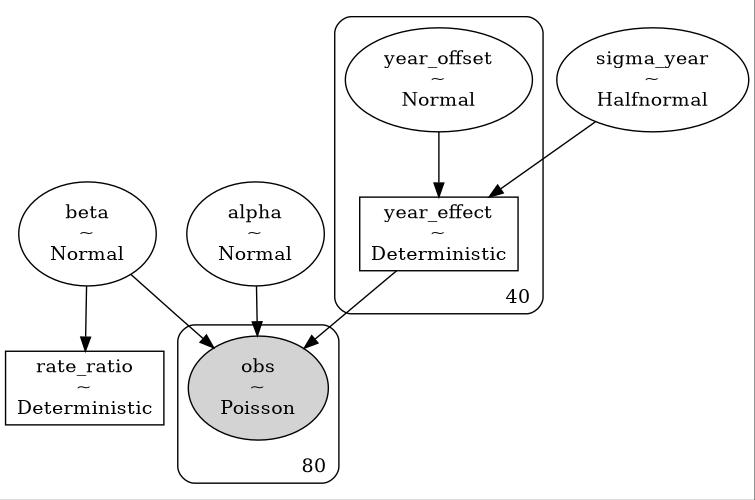
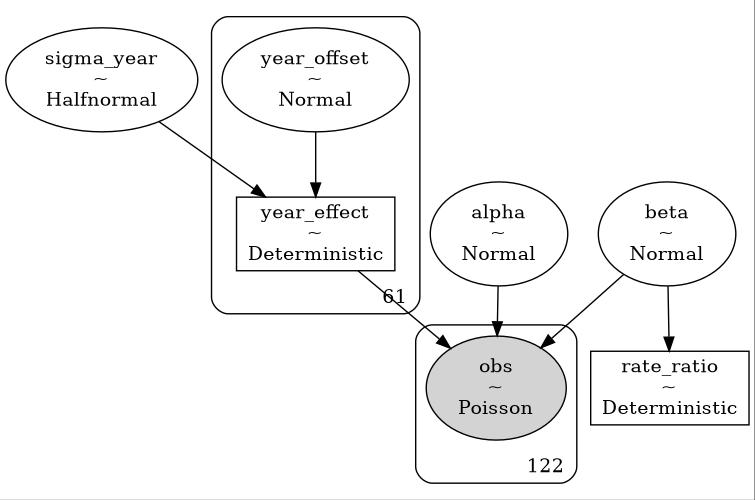
-

diff --git a/stat/stat_082_rapoi/stat_082_rapoi.html b/stat/stat_082_rapoi/stat_082_rapoi.html
@@ -161,7 +161,7 @@ class="sourceCode python"><code class="sourceCode python"><span id="cb3-1"><a hr
 <span id="cb3-7"><a href="#cb3-7" aria-hidden="true" tabindex="-1"></a></span>
 <span id="cb3-8"><a href="#cb3-8" aria-hidden="true" tabindex="-1"></a>sim <span class="op">=</span> data.generate_synthetic(years<span class="op">=</span>years,</span>
 <span id="cb3-9"><a href="#cb3-9" aria-hidden="true" tabindex="-1"></a>                              alpha_log<span class="op">=</span><span class="fl">3.2</span>,</span>
-<span id="cb3-10"><a href="#cb3-10" aria-hidden="true" tabindex="-1"></a>                              beta_log<span class="op">=</span>np.log(<span class="fl">1.05</span>),   <span class="co"># ~5% higher near</span></span>
+<span id="cb3-10"><a href="#cb3-10" aria-hidden="true" tabindex="-1"></a>                              beta_log<span class="op">=</span><span class="dv">0</span>,</span>
 <span id="cb3-11"><a href="#cb3-11" aria-hidden="true" tabindex="-1"></a>                              sigma_year<span class="op">=</span><span class="fl">0.4</span>,</span>
 <span id="cb3-12"><a href="#cb3-12" aria-hidden="true" tabindex="-1"></a>                              obs_model<span class="op">=</span><span class="st">&quot;poisson&quot;</span>,</span>
 <span id="cb3-13"><a href="#cb3-13" aria-hidden="true" tabindex="-1"></a>                              trend<span class="op">=</span>data.slow_trend)</span>
@@ -172,7 +172,7 @@ class="sourceCode python"><code class="sourceCode python"><span id="cb3-1"><a hr
 <span id="cb3-18"><a href="#cb3-18" aria-hidden="true" tabindex="-1"></a>    <span class="st">&quot;far&quot;</span>: sim[<span class="st">&quot;far&quot;</span>]</span>
 <span id="cb3-19"><a href="#cb3-19" aria-hidden="true" tabindex="-1"></a>})</span>
 <span id="cb3-20"><a href="#cb3-20" aria-hidden="true" tabindex="-1"></a></span>
-<span id="cb3-21"><a href="#cb3-21" aria-hidden="true" tabindex="-1"></a>SEED <span class="op">=</span> <span class="dv">123</span></span>
+<span id="cb3-21"><a href="#cb3-21" aria-hidden="true" tabindex="-1"></a>SEED <span class="op">=</span> <span class="dv">333</span></span>
 <span id="cb3-22"><a href="#cb3-22" aria-hidden="true" tabindex="-1"></a>np.random.seed(SEED)</span>
 <span id="cb3-23"><a href="#cb3-23" aria-hidden="true" tabindex="-1"></a></span>
 <span id="cb3-24"><a href="#cb3-24" aria-hidden="true" tabindex="-1"></a><span class="co"># quick plot of generated counts</span></span>
@@ -186,61 +186,68 @@ class="sourceCode python"><code class="sourceCode python"><span id="cb3-1"><a hr
 <span id="cb3-32"><a href="#cb3-32" aria-hidden="true" tabindex="-1"></a>plt.savefig(<span class="st">&#39;stat_082_rapoi_01.jpg&#39;</span>)</span></code></pre></div>
 <p><img src="stat_082_rapoi_01.jpg" /></p>
 <div class="sourceCode" id="cb4"><pre
-class="sourceCode python"><code class="sourceCode python"><span id="cb4-1"><a href="#cb4-1" aria-hidden="true" tabindex="-1"></a><span class="kw">def</span> build_stacked_arrays(simdict):</span>
-<span id="cb4-2"><a href="#cb4-2" aria-hidden="true" tabindex="-1"></a>    years <span class="op">=</span> np.array(simdict[<span class="st">&quot;years&quot;</span>])</span>
-<span id="cb4-3"><a href="#cb4-3" aria-hidden="true" tabindex="-1"></a>    near <span class="op">=</span> np.array(simdict[<span class="st">&quot;near&quot;</span>])</span>
-<span id="cb4-4"><a href="#cb4-4" aria-hidden="true" tabindex="-1"></a>    far  <span class="op">=</span> np.array(simdict[<span class="st">&quot;far&quot;</span>])</span>
-<span id="cb4-5"><a href="#cb4-5" aria-hidden="true" tabindex="-1"></a>    n_years <span class="op">=</span> <span class="bu">len</span>(years)</span>
-<span id="cb4-6"><a href="#cb4-6" aria-hidden="true" tabindex="-1"></a>    counts <span class="op">=</span> np.concatenate([near, far])</span>
-<span id="cb4-7"><a href="#cb4-7" aria-hidden="true" tabindex="-1"></a>    group <span class="op">=</span> np.concatenate([np.ones(n_years, dtype<span class="op">=</span><span class="bu">int</span>), np.zeros(n_years, dtype<span class="op">=</span><span class="bu">int</span>)])</span>
-<span id="cb4-8"><a href="#cb4-8" aria-hidden="true" tabindex="-1"></a>    year_idx <span class="op">=</span> np.concatenate([np.arange(n_years), np.arange(n_years)])</span>
-<span id="cb4-9"><a href="#cb4-9" aria-hidden="true" tabindex="-1"></a>    <span class="cf">return</span> years, counts, group, year_idx, near, far</span>
-<span id="cb4-10"><a href="#cb4-10" aria-hidden="true" tabindex="-1"></a></span>
-<span id="cb4-11"><a href="#cb4-11" aria-hidden="true" tabindex="-1"></a>years, counts_pois, group_pois, year_idx_pois, near_arr, far_arr <span class="op">=</span> build_stacked_arrays(sim)</span>
-<span id="cb4-12"><a href="#cb4-12" aria-hidden="true" tabindex="-1"></a>n_years <span class="op">=</span> <span class="bu">len</span>(years)</span>
-<span id="cb4-13"><a href="#cb4-13" aria-hidden="true" tabindex="-1"></a></span>
-<span id="cb4-14"><a href="#cb4-14" aria-hidden="true" tabindex="-1"></a><span class="cf">with</span> pm.Model() <span class="im">as</span> model_synth:</span>
-<span id="cb4-15"><a href="#cb4-15" aria-hidden="true" tabindex="-1"></a>    sigma_year <span class="op">=</span> pm.HalfNormal(<span class="st">&quot;sigma_year&quot;</span>, sigma<span class="op">=</span><span class="fl">1.0</span>)</span>
-<span id="cb4-16"><a href="#cb4-16" aria-hidden="true" tabindex="-1"></a>    year_offset <span class="op">=</span> pm.Normal(<span class="st">&quot;year_offset&quot;</span>, <span class="fl">0.0</span>, <span class="fl">1.0</span>, shape<span class="op">=</span>n_years)</span>
-<span id="cb4-17"><a href="#cb4-17" aria-hidden="true" tabindex="-1"></a>    year_effect <span class="op">=</span> pm.Deterministic(<span class="st">&quot;year_effect&quot;</span>, year_offset <span class="op">*</span> sigma_year)</span>
+class="sourceCode python"><code class="sourceCode python"><span id="cb4-1"><a href="#cb4-1" aria-hidden="true" tabindex="-1"></a></span>
+<span id="cb4-2"><a href="#cb4-2" aria-hidden="true" tabindex="-1"></a><span class="kw">def</span> fit_poisson_ratio(years, near_arr, far_arr, fout):</span>
+<span id="cb4-3"><a href="#cb4-3" aria-hidden="true" tabindex="-1"></a>    n_years <span class="op">=</span> <span class="bu">len</span>(years)</span>
+<span id="cb4-4"><a href="#cb4-4" aria-hidden="true" tabindex="-1"></a>    <span class="cf">with</span> pm.Model() <span class="im">as</span> model_synth:</span>
+<span id="cb4-5"><a href="#cb4-5" aria-hidden="true" tabindex="-1"></a>        sigma_year <span class="op">=</span> pm.HalfNormal(<span class="st">&quot;sigma_year&quot;</span>, sigma<span class="op">=</span><span class="fl">1.0</span>)</span>
+<span id="cb4-6"><a href="#cb4-6" aria-hidden="true" tabindex="-1"></a>        year_offset <span class="op">=</span> pm.Normal(<span class="st">&quot;year_offset&quot;</span>, <span class="fl">0.0</span>, <span class="fl">1.0</span>, shape<span class="op">=</span>n_years)</span>
+<span id="cb4-7"><a href="#cb4-7" aria-hidden="true" tabindex="-1"></a>        year_effect <span class="op">=</span> pm.Deterministic(<span class="st">&quot;year_effect&quot;</span>, year_offset <span class="op">*</span> sigma_year)</span>
+<span id="cb4-8"><a href="#cb4-8" aria-hidden="true" tabindex="-1"></a></span>
+<span id="cb4-9"><a href="#cb4-9" aria-hidden="true" tabindex="-1"></a>        alpha <span class="op">=</span> pm.Normal(<span class="st">&quot;alpha&quot;</span>, <span class="fl">0.0</span>, <span class="fl">2.0</span>)</span>
+<span id="cb4-10"><a href="#cb4-10" aria-hidden="true" tabindex="-1"></a>        beta  <span class="op">=</span> pm.Normal(<span class="st">&quot;beta&quot;</span>, <span class="fl">0.0</span>, <span class="fl">1.0</span>)</span>
+<span id="cb4-11"><a href="#cb4-11" aria-hidden="true" tabindex="-1"></a></span>
+<span id="cb4-12"><a href="#cb4-12" aria-hidden="true" tabindex="-1"></a>        log_mu <span class="op">=</span> alpha <span class="op">+</span> beta <span class="op">*</span> group_pois <span class="op">+</span> year_effect[year_idx_pois]</span>
+<span id="cb4-13"><a href="#cb4-13" aria-hidden="true" tabindex="-1"></a>        mu <span class="op">=</span> pm.math.exp(log_mu)</span>
+<span id="cb4-14"><a href="#cb4-14" aria-hidden="true" tabindex="-1"></a></span>
+<span id="cb4-15"><a href="#cb4-15" aria-hidden="true" tabindex="-1"></a>        obs <span class="op">=</span> pm.Poisson(<span class="st">&quot;obs&quot;</span>, mu<span class="op">=</span>mu, observed<span class="op">=</span>counts_pois)</span>
+<span id="cb4-16"><a href="#cb4-16" aria-hidden="true" tabindex="-1"></a></span>
+<span id="cb4-17"><a href="#cb4-17" aria-hidden="true" tabindex="-1"></a>        rate_ratio <span class="op">=</span> pm.Deterministic(<span class="st">&quot;rate_ratio&quot;</span>, pm.math.exp(beta))</span>
 <span id="cb4-18"><a href="#cb4-18" aria-hidden="true" tabindex="-1"></a></span>
-<span id="cb4-19"><a href="#cb4-19" aria-hidden="true" tabindex="-1"></a>    alpha <span class="op">=</span> pm.Normal(<span class="st">&quot;alpha&quot;</span>, <span class="fl">0.0</span>, <span class="fl">2.0</span>)</span>
-<span id="cb4-20"><a href="#cb4-20" aria-hidden="true" tabindex="-1"></a>    beta  <span class="op">=</span> pm.Normal(<span class="st">&quot;beta&quot;</span>, <span class="fl">0.0</span>, <span class="fl">1.0</span>)</span>
-<span id="cb4-21"><a href="#cb4-21" aria-hidden="true" tabindex="-1"></a></span>
-<span id="cb4-22"><a href="#cb4-22" aria-hidden="true" tabindex="-1"></a>    log_mu <span class="op">=</span> alpha <span class="op">+</span> beta <span class="op">*</span> group_pois <span class="op">+</span> year_effect[year_idx_pois]</span>
-<span id="cb4-23"><a href="#cb4-23" aria-hidden="true" tabindex="-1"></a>    mu <span class="op">=</span> pm.math.exp(log_mu)</span>
-<span id="cb4-24"><a href="#cb4-24" aria-hidden="true" tabindex="-1"></a></span>
-<span id="cb4-25"><a href="#cb4-25" aria-hidden="true" tabindex="-1"></a>    obs <span class="op">=</span> pm.Poisson(<span class="st">&quot;obs&quot;</span>, mu<span class="op">=</span>mu, observed<span class="op">=</span>counts_pois)</span>
-<span id="cb4-26"><a href="#cb4-26" aria-hidden="true" tabindex="-1"></a></span>
-<span id="cb4-27"><a href="#cb4-27" aria-hidden="true" tabindex="-1"></a>    rate_ratio <span class="op">=</span> pm.Deterministic(<span class="st">&quot;rate_ratio&quot;</span>, pm.math.exp(beta))</span>
-<span id="cb4-28"><a href="#cb4-28" aria-hidden="true" tabindex="-1"></a></span>
-<span id="cb4-29"><a href="#cb4-29" aria-hidden="true" tabindex="-1"></a>    idata <span class="op">=</span> pm.sample(<span class="dv">1000</span>, tune<span class="op">=</span><span class="dv">1000</span>, target_accept<span class="op">=</span><span class="fl">0.9</span>, return_inferencedata<span class="op">=</span><span class="va">True</span>, random_seed<span class="op">=</span>SEED)</span>
-<span id="cb4-30"><a href="#cb4-30" aria-hidden="true" tabindex="-1"></a></span>
-<span id="cb4-31"><a href="#cb4-31" aria-hidden="true" tabindex="-1"></a>    graphviz <span class="op">=</span> pm.model_to_graphviz(model_synth)</span>
-<span id="cb4-32"><a href="#cb4-32" aria-hidden="true" tabindex="-1"></a>    graphviz.graph_attr.update(dpi<span class="op">=</span><span class="st">&quot;100&quot;</span>)</span>
-<span id="cb4-33"><a href="#cb4-33" aria-hidden="true" tabindex="-1"></a>    graphviz.render(<span class="st">&quot;stat_082_rapoi_03&quot;</span>, <span class="bu">format</span><span class="op">=</span><span class="st">&quot;jpg&quot;</span>)</span>
-<span id="cb4-34"><a href="#cb4-34" aria-hidden="true" tabindex="-1"></a>    </span>
-<span id="cb4-35"><a href="#cb4-35" aria-hidden="true" tabindex="-1"></a><span class="bu">print</span>(az.summary(idata, var_names<span class="op">=</span>[<span class="st">&quot;alpha&quot;</span>, <span class="st">&quot;beta&quot;</span>, <span class="st">&quot;sigma_year&quot;</span>, <span class="st">&quot;rate_ratio&quot;</span>], round_to<span class="op">=</span><span class="dv">3</span>))</span></code></pre></div>
-<pre class="text"><code>                                                                                
-                              Step      Grad      Sampli…                       
+<span id="cb4-19"><a href="#cb4-19" aria-hidden="true" tabindex="-1"></a>        idata <span class="op">=</span> pm.sample(<span class="dv">1000</span>, tune<span class="op">=</span><span class="dv">1000</span>, target_accept<span class="op">=</span><span class="fl">0.9</span>, return_inferencedata<span class="op">=</span><span class="va">True</span>, random_seed<span class="op">=</span>SEED)</span>
+<span id="cb4-20"><a href="#cb4-20" aria-hidden="true" tabindex="-1"></a></span>
+<span id="cb4-21"><a href="#cb4-21" aria-hidden="true" tabindex="-1"></a>        graphviz <span class="op">=</span> pm.model_to_graphviz(model_synth)</span>
+<span id="cb4-22"><a href="#cb4-22" aria-hidden="true" tabindex="-1"></a>        graphviz.graph_attr.update(dpi<span class="op">=</span><span class="st">&quot;100&quot;</span>)</span>
+<span id="cb4-23"><a href="#cb4-23" aria-hidden="true" tabindex="-1"></a>        graphviz.render(fout, <span class="bu">format</span><span class="op">=</span><span class="st">&quot;jpg&quot;</span>)</span>
+<span id="cb4-24"><a href="#cb4-24" aria-hidden="true" tabindex="-1"></a>        <span class="bu">print</span>(az.summary(idata, var_names<span class="op">=</span>[<span class="st">&quot;alpha&quot;</span>, <span class="st">&quot;beta&quot;</span>, <span class="st">&quot;sigma_year&quot;</span>, <span class="st">&quot;rate_ratio&quot;</span>], round_to<span class="op">=</span><span class="dv">3</span>))</span>
+<span id="cb4-25"><a href="#cb4-25" aria-hidden="true" tabindex="-1"></a>        rr_samples <span class="op">=</span> idata.posterior[<span class="st">&quot;rate_ratio&quot;</span>].values.flatten()</span>
+<span id="cb4-26"><a href="#cb4-26" aria-hidden="true" tabindex="-1"></a>        p_gt_1 <span class="op">=</span> (rr_samples <span class="op">&gt;</span> <span class="fl">1.0</span>).mean()</span>
+<span id="cb4-27"><a href="#cb4-27" aria-hidden="true" tabindex="-1"></a>        <span class="bu">print</span>(<span class="ss">f&quot;</span><span class="ch">\n</span><span class="ss">P(rate_ratio &gt; 1) = </span><span class="sc">{</span>p_gt_1<span class="sc">:.3f}</span><span class="ss">&quot;</span>)    </span>
+<span id="cb4-28"><a href="#cb4-28" aria-hidden="true" tabindex="-1"></a>        <span class="cf">return</span> idata</span>
+<span id="cb4-29"><a href="#cb4-29" aria-hidden="true" tabindex="-1"></a>    </span>
+<span id="cb4-30"><a href="#cb4-30" aria-hidden="true" tabindex="-1"></a><span class="kw">def</span> build_stacked_arrays(simdict):</span>
+<span id="cb4-31"><a href="#cb4-31" aria-hidden="true" tabindex="-1"></a>    years <span class="op">=</span> np.array(simdict[<span class="st">&quot;years&quot;</span>])</span>
+<span id="cb4-32"><a href="#cb4-32" aria-hidden="true" tabindex="-1"></a>    near <span class="op">=</span> np.array(simdict[<span class="st">&quot;near&quot;</span>])</span>
+<span id="cb4-33"><a href="#cb4-33" aria-hidden="true" tabindex="-1"></a>    far  <span class="op">=</span> np.array(simdict[<span class="st">&quot;far&quot;</span>])</span>
+<span id="cb4-34"><a href="#cb4-34" aria-hidden="true" tabindex="-1"></a>    n_years <span class="op">=</span> <span class="bu">len</span>(years)</span>
+<span id="cb4-35"><a href="#cb4-35" aria-hidden="true" tabindex="-1"></a>    counts <span class="op">=</span> np.concatenate([near, far])</span>
+<span id="cb4-36"><a href="#cb4-36" aria-hidden="true" tabindex="-1"></a>    group <span class="op">=</span> np.concatenate([np.ones(n_years, dtype<span class="op">=</span><span class="bu">int</span>), np.zeros(n_years, dtype<span class="op">=</span><span class="bu">int</span>)])</span>
+<span id="cb4-37"><a href="#cb4-37" aria-hidden="true" tabindex="-1"></a>    year_idx <span class="op">=</span> np.concatenate([np.arange(n_years), np.arange(n_years)])</span>
+<span id="cb4-38"><a href="#cb4-38" aria-hidden="true" tabindex="-1"></a>    <span class="cf">return</span> years, counts, group, year_idx, near, far</span>
+<span id="cb4-39"><a href="#cb4-39" aria-hidden="true" tabindex="-1"></a></span>
+<span id="cb4-40"><a href="#cb4-40" aria-hidden="true" tabindex="-1"></a>years, counts_pois, group_pois, year_idx_pois, near_arr, far_arr <span class="op">=</span> build_stacked_arrays(sim)</span>
+<span id="cb4-41"><a href="#cb4-41" aria-hidden="true" tabindex="-1"></a>idata <span class="op">=</span> fit_poisson_ratio(years, near_arr, far_arr, <span class="st">&quot;stat_082_rapoi_03&quot;</span>)</span></code></pre></div>
+<pre class="text"><code>                              Step      Grad      Sampli…                       
   Progre…   Draws   Diverg…   size      evals     Speed     Elapsed   Remaini…  
- ------------------------------------------------------------------------------  
-  -------   2000    0         0.221     15        666.79    0:00:02   0:00:00   
+                                                                                
+            2000    0         0.294     15        608.92    0:00:03   0:00:00   
                                                   draws/s                       
-  -------   2000    0         0.263     15        656.74    0:00:03   0:00:00   
+            2000    0         0.311     15        566.95    0:00:03   0:00:00   
                                                   draws/s                       
-  -------   2000    0         0.241     15        645.92    0:00:03   0:00:00   
+            2000    0         0.319     15        615.70    0:00:03   0:00:00   
                                                   draws/s                       
-  -------   2000    0         0.253     15        625.81    0:00:03   0:00:00   
+            2000    0         0.294     15        585.16    0:00:03   0:00:00   
                                                   draws/s                       
                                                                                 
              mean     sd  hdi_3%  hdi_97%  ...  mcse_sd  ess_bulk  ess_tail  r_hat
-alpha       3.231  0.070   3.089    3.354  ...    0.002   448.966   895.281  1.013
-beta        0.047  0.034  -0.016    0.112  ...    0.001  6444.508  2903.323  1.000
-sigma_year  0.498  0.052   0.405    0.596  ...    0.001   682.152  1494.371  1.006
-rate_ratio  1.049  0.036   0.985    1.119  ...    0.001  6444.508  2903.323  1.000
+alpha       3.162  0.054   3.060    3.264  ...    0.001  1063.983  1799.608  1.001
+beta       -0.008  0.036  -0.078    0.056  ...    0.001  8788.097  2684.766  1.006
+sigma_year  0.365  0.040   0.299    0.448  ...    0.001  1283.107  1917.308  1.003
+rate_ratio  0.993  0.036   0.925    1.058  ...    0.001  8788.097  2684.766  1.006
 
-[4 rows x 9 columns]</code></pre>
+[4 rows x 9 columns]
+
+P(rate_ratio &gt; 1) = 0.419</code></pre>
 <p><img src="stat_082_rapoi_03.jpg" /></p>
 <div class="sourceCode" id="cb6"><pre
 class="sourceCode python"><code class="sourceCode python"><span id="cb6-1"><a href="#cb6-1" aria-hidden="true" tabindex="-1"></a><span class="co"># Plot posterior of rate ratio</span></span>
@@ -253,6 +260,51 @@ class="sourceCode python"><code class="sourceCode python"><span id="cb6-1"><a hr
 <span id="cb6-8"><a href="#cb6-8" aria-hidden="true" tabindex="-1"></a>plt.tight_layout()</span>
 <span id="cb6-9"><a href="#cb6-9" aria-hidden="true" tabindex="-1"></a>plt.savefig(<span class="st">&#39;stat_082_rapoi_02.jpg&#39;</span>)</span></code></pre></div>
 <p><img src="stat_082_rapoi_02.jpg" /></p>
+<div class="sourceCode" id="cb7"><pre
+class="sourceCode python"><code class="sourceCode python"><span id="cb7-1"><a href="#cb7-1" aria-hidden="true" tabindex="-1"></a>np.random.seed(<span class="dv">42</span>)</span>
+<span id="cb7-2"><a href="#cb7-2" aria-hidden="true" tabindex="-1"></a>years <span class="op">=</span> np.arange(<span class="dv">1980</span>, <span class="dv">2020</span>)</span>
+<span id="cb7-3"><a href="#cb7-3" aria-hidden="true" tabindex="-1"></a>T <span class="op">=</span> <span class="bu">len</span>(years)</span>
+<span id="cb7-4"><a href="#cb7-4" aria-hidden="true" tabindex="-1"></a>u_t <span class="op">=</span> np.random.normal(<span class="dv">0</span>, <span class="fl">0.4</span>, size<span class="op">=</span>T)</span>
+<span id="cb7-5"><a href="#cb7-5" aria-hidden="true" tabindex="-1"></a>alpha <span class="op">=</span> <span class="fl">3.0</span></span>
+<span id="cb7-6"><a href="#cb7-6" aria-hidden="true" tabindex="-1"></a>beta_true <span class="op">=</span> np.log(<span class="fl">1.3</span>)   <span class="co"># 30% higher near rate</span></span>
+<span id="cb7-7"><a href="#cb7-7" aria-hidden="true" tabindex="-1"></a>mu_far <span class="op">=</span> np.exp(alpha <span class="op">+</span> u_t)</span>
+<span id="cb7-8"><a href="#cb7-8" aria-hidden="true" tabindex="-1"></a>mu_near <span class="op">=</span> np.exp(alpha <span class="op">+</span> beta_true <span class="op">+</span> u_t)</span>
+<span id="cb7-9"><a href="#cb7-9" aria-hidden="true" tabindex="-1"></a>far <span class="op">=</span> np.random.poisson(mu_far)</span>
+<span id="cb7-10"><a href="#cb7-10" aria-hidden="true" tabindex="-1"></a>near <span class="op">=</span> np.random.poisson(mu_near)</span>
+<span id="cb7-11"><a href="#cb7-11" aria-hidden="true" tabindex="-1"></a></span>
+<span id="cb7-12"><a href="#cb7-12" aria-hidden="true" tabindex="-1"></a>sim <span class="op">=</span> {<span class="st">&quot;years&quot;</span>: years, <span class="st">&quot;near&quot;</span>: near, <span class="st">&quot;far&quot;</span>: far}</span>
+<span id="cb7-13"><a href="#cb7-13" aria-hidden="true" tabindex="-1"></a>years, counts_pois, group_pois, year_idx_pois, near_arr, far_arr <span class="op">=</span> build_stacked_arrays(sim)</span>
+<span id="cb7-14"><a href="#cb7-14" aria-hidden="true" tabindex="-1"></a>idata <span class="op">=</span> fit_poisson_ratio(years, near_arr, far_arr, <span class="st">&quot;stat_082_rapoi_03&quot;</span>)</span></code></pre></div>
+<pre class="text"><code>                              Step      Grad      Sampli…                       
+  Progre…   Draws   Diverg…   size      evals     Speed     Elapsed   Remaini…  
+                                                                                
+            2000    0         0.346     7         628.98    0:00:03   0:00:00   
+                                                  draws/s                       
+            2000    0         0.305     15        669.16    0:00:02   0:00:00   
+                                                  draws/s                       
+            2000    0         0.314     15        687.65    0:00:02   0:00:00   
+                                                  draws/s                       
+            2000    0         0.278     15        634.85    0:00:03   0:00:00   
+                                                  draws/s                       
+                                                                                
+             mean     sd  hdi_3%  hdi_97%  ...  mcse_sd  ess_bulk  ess_tail  r_hat
+alpha       2.879  0.073   2.736    3.011  ...    0.001  1030.075  1813.990  1.002
+beta        0.317  0.047   0.229    0.408  ...    0.001  8153.224  2749.679  1.000
+sigma_year  0.379  0.053   0.277    0.474  ...    0.001  1173.341  1764.667  1.003
+rate_ratio  1.375  0.065   1.258    1.503  ...    0.001  8153.224  2749.679  1.000
+
+[4 rows x 9 columns]
+
+P(rate_ratio &gt; 1) = 1.000</code></pre>
+<div class="sourceCode" id="cb9"><pre
+class="sourceCode python"><code class="sourceCode python"><span id="cb9-1"><a href="#cb9-1" aria-hidden="true" tabindex="-1"></a>rr_samples <span class="op">=</span> idata.posterior[<span class="st">&quot;rate_ratio&quot;</span>].values.flatten()</span>
+<span id="cb9-2"><a href="#cb9-2" aria-hidden="true" tabindex="-1"></a>plt.figure(figsize<span class="op">=</span>(<span class="dv">6</span>,<span class="dv">3</span>))</span>
+<span id="cb9-3"><a href="#cb9-3" aria-hidden="true" tabindex="-1"></a>az.plot_posterior(rr_samples, hdi_prob<span class="op">=</span><span class="fl">0.95</span>)</span>
+<span id="cb9-4"><a href="#cb9-4" aria-hidden="true" tabindex="-1"></a>plt.title(<span class="st">&quot;Recovered rate ratio (Poisson synthetic)&quot;</span>)</span>
+<span id="cb9-5"><a href="#cb9-5" aria-hidden="true" tabindex="-1"></a>plt.legend()</span>
+<span id="cb9-6"><a href="#cb9-6" aria-hidden="true" tabindex="-1"></a>plt.tight_layout()</span>
+<span id="cb9-7"><a href="#cb9-7" aria-hidden="true" tabindex="-1"></a>plt.savefig(<span class="st">&#39;stat_082_rapoi_04.jpg&#39;</span>)</span></code></pre></div>
+<p><img src="stat_082_rapoi_04.jpg" /></p>
 <p>[devam edecek]</p>
 <p>Kaynaklar</p>
 <p>[1] Bayramli, Istatistik, <em>Sayım, Poisson ve Negatif Binom Bazlı

diff --git a/stat/stat_082_rapoi/stat_082_rapoi.md b/stat/stat_082_rapoi/stat_082_rapoi.md
@@ -86,7 +86,7 @@ years = np.arange(1950, 2011)
 
 sim = data.generate_synthetic(years=years,
                               alpha_log=3.2,
-                              beta_log=np.log(1.05),   # ~5% higher near
+                              beta_log=0,
                               sigma_year=0.4,
                               obs_model="poisson",
                               trend=data.slow_trend)
@@ -97,7 +97,7 @@ df = pd.DataFrame({
     "far": sim["far"]
 })
 
-SEED = 123
+SEED = 333
 np.random.seed(SEED)
 
 # quick plot of generated counts
@@ -116,7 +116,7 @@ plt.savefig('stat_082_rapoi_01.jpg')
 
 ```python
 
-def fit_poisson_ratio(years, near_arr, far_arr):
+def fit_poisson_ratio(years, near_arr, far_arr, fout):
     n_years = len(years)
     with pm.Model() as model_synth:
         sigma_year = pm.HalfNormal("sigma_year", sigma=1.0)
@@ -137,8 +137,11 @@ def fit_poisson_ratio(years, near_arr, far_arr):
 
         graphviz = pm.model_to_graphviz(model_synth)
         graphviz.graph_attr.update(dpi="100")
-        graphviz.render("stat_082_rapoi_03", format="jpg")
+        graphviz.render(fout, format="jpg")
         print(az.summary(idata, var_names=["alpha", "beta", "sigma_year", "rate_ratio"], round_to=3))
+        rr_samples = idata.posterior["rate_ratio"].values.flatten()
+        p_gt_1 = (rr_samples > 1.0).mean()
+        print(f"\nP(rate_ratio > 1) = {p_gt_1:.3f}")    
         return idata
 	
 def build_stacked_arrays(simdict):
@@ -152,32 +155,32 @@ def build_stacked_arrays(simdict):
     return years, counts, group, year_idx, near, far
 
 years, counts_pois, group_pois, year_idx_pois, near_arr, far_arr = build_stacked_arrays(sim)
-idata = fit_poisson_ratio(years, near_arr, far_arr)
+idata = fit_poisson_ratio(years, near_arr, far_arr, "stat_082_rapoi_03")
 ```
 
-```text
-                                                                                
+```text                                                                                
                               Step      Grad      Sampli…                       
   Progre…   Draws   Diverg…   size      evals     Speed     Elapsed   Remaini…  
- ────────────────────────────────────────────────────────────────────────────── 
-  ━━━━━━━   2000    0         0.221     15        667.20    0:00:02   0:00:00   
+                                                                                
+            2000    0         0.294     15        608.92    0:00:03   0:00:00   
                                                   draws/s                       
-  ━━━━━━━   2000    0         0.263     15        623.56    0:00:03   0:00:00   
+            2000    0         0.311     15        566.95    0:00:03   0:00:00   
                                                   draws/s                       
-  ━━━━━━━   2000    0         0.241     15        641.13    0:00:03   0:00:00   
+            2000    0         0.319     15        615.70    0:00:03   0:00:00   
                                                   draws/s                       
-  ━━━━━━━   2000    0         0.253     15        618.21    0:00:03   0:00:00   
+            2000    0         0.294     15        585.16    0:00:03   0:00:00   
                                                   draws/s                       
                                                                                 
              mean     sd  hdi_3%  hdi_97%  ...  mcse_sd  ess_bulk  ess_tail  r_hat
-alpha       3.231  0.070   3.089    3.354  ...    0.002   448.966   895.281  1.013
-beta        0.047  0.034  -0.016    0.112  ...    0.001  6444.508  2903.323  1.000
-sigma_year  0.498  0.052   0.405    0.596  ...    0.001   682.152  1494.371  1.006
-rate_ratio  1.049  0.036   0.985    1.119  ...    0.001  6444.508  2903.323  1.000
+alpha       3.162  0.054   3.060    3.264  ...    0.001  1063.983  1799.608  1.001
+beta       -0.008  0.036  -0.078    0.056  ...    0.001  8788.097  2684.766  1.006
+sigma_year  0.365  0.040   0.299    0.448  ...    0.001  1283.107  1917.308  1.003
+rate_ratio  0.993  0.036   0.925    1.058  ...    0.001  8788.097  2684.766  1.006
 
 [4 rows x 9 columns]
-```
 
+P(rate_ratio > 1) = 0.419
+```
 
 ![](stat_082_rapoi_03.jpg)
 
@@ -210,9 +213,44 @@ near = np.random.poisson(mu_near)
 
 sim = {"years": years, "near": near, "far": far}
 years, counts_pois, group_pois, year_idx_pois, near_arr, far_arr = build_stacked_arrays(sim)
-idata = fit_poisson_ratio(years, near_arr, far_arr)
+idata = fit_poisson_ratio(years, near_arr, far_arr, "stat_082_rapoi_03")
 ```
 
+```text                                                                                
+                              Step      Grad      Sampli…                       
+  Progre…   Draws   Diverg…   size      evals     Speed     Elapsed   Remaini…  
+                                                                                
+            2000    0         0.346     7         628.98    0:00:03   0:00:00   
+                                                  draws/s                       
+            2000    0         0.305     15        669.16    0:00:02   0:00:00   
+                                                  draws/s                       
+            2000    0         0.314     15        687.65    0:00:02   0:00:00   
+                                                  draws/s                       
+            2000    0         0.278     15        634.85    0:00:03   0:00:00   
+                                                  draws/s                       
+                                                                                
+             mean     sd  hdi_3%  hdi_97%  ...  mcse_sd  ess_bulk  ess_tail  r_hat
+alpha       2.879  0.073   2.736    3.011  ...    0.001  1030.075  1813.990  1.002
+beta        0.317  0.047   0.229    0.408  ...    0.001  8153.224  2749.679  1.000
+sigma_year  0.379  0.053   0.277    0.474  ...    0.001  1173.341  1764.667  1.003
+rate_ratio  1.375  0.065   1.258    1.503  ...    0.001  8153.224  2749.679  1.000
+
+[4 rows x 9 columns]
+
+P(rate_ratio > 1) = 1.000
+```
+
+```python
+rr_samples = idata.posterior["rate_ratio"].values.flatten()
+plt.figure(figsize=(6,3))
+az.plot_posterior(rr_samples, hdi_prob=0.95)
+plt.title("Recovered rate ratio (Poisson synthetic)")
+plt.legend()
+plt.tight_layout()
+plt.savefig('stat_082_rapoi_04.jpg')
+```
+
+![](stat_082_rapoi_04.jpg)
 
 [devam edecek]
 
